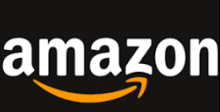
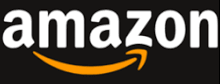
6:21pm

diff --git a/frontend/public/index.css b/frontend/public/index.css
@@ -1,5 +1,7 @@
 body {
    margin: 0;
+   font-family: Arial, Helvetica, sans-serif;
+   font-size: 14px;
 
    .container {
       display: grid;
@@ -8,47 +10,110 @@ body {
          color: white;
          background-color: rgb(37, 37, 63);
          display: flex;
-         max-width: 100%;
+         align-items: center;
+         height: 60px;
+         width: 1263px;
 
          .home {
-
+            height: 52px;
+            border: 1px solid white;
+            border-radius: 2px;
+            display: flex;
+            justify-content: center;
+            align-items: center;
+            margin-left: 2px;
             img {
-               max-width: 100px;
+               max-width: 96px;
+               max-height: 56px;
+               padding: 2px 6px;
+               
             }
          }
 
          .location {
+            height: 52px;
+            border: 1px solid white;
+            border-radius: 2px;
+            display: flex;
+            width: 140px;
+            align-items: center;
+            margin-left: 1px;
 
-            img {
+            .person span {
+               margin-left: 0px;
+            }
+
+            .person .customer {
+               font-size: 12px;
+               font-family: Arial, Helvetica, sans-serif;
+               white-space: nowrap;
+            }
+
+            .person .pin {
+               font-size: 14px;
+               font-family: Arial, Helvetica, sans-serif;
+               white-space: nowrap;
+            }
+
+            .img img {
                width: 30px;
                height: 25px;
+               padding-left: 0px;
+               padding-top: 18px;
+               
             }
          }
 
          .search {
             display: flex;
+            min-width: 200px;
+            max-width: 300px;
+            padding-left: 6px;
 
-            .all {
-
-               img {
-                  max-width: 20px;
-                  
+            .searchBar {
+               height: 40px;
+               display: flex;
+               .all {
+                  background-color: white;
+                  height: 40px;
+                  width: 50px;
+                  display: flex;
+                  border-top-left-radius: 4px;
+                  border-bottom-left-radius: 4px;
+                  span {
+                     font-size: 12px;
+                     font-family: inherit;
+                     color: rgb(143, 135, 135);
+                     padding-left: 12px;
+                     padding-top: 12px;
+                     
+                  }
+   
+                  img {
+                     width: 12px;
+                     height: 12px;
+                     padding-top: 15px;
+                     padding-left: 7px;
+                     padding-right: 7px;
+                  }
                }
-            }
-            input {
-               max-height: 30px;
-            }
-            .search {
-               
-               img {
-                  width: 25px;
-                  height: 25px;
+               input {
+                  height: 34px;
+               }
+               input:focus {
+                  outline: none;
+               }
+               .search {
+                  
+                  img {
+                     width: 25px;
+                     height: 25px;
+                  }
                }
             }
          }
-
          .language {
-
+   
             img {
                width: 20px
             }
@@ -66,10 +131,13 @@ body {
                width: 40px;
             }
          }
+            
       }
       .bottomBar {
          color: white;
          background: rgb(73, 73, 90);
+         height: 40px;
+         width: 1263px;
       }
 
       .content {

diff --git a/frontend/public/index.html b/frontend/public/index.html
@@ -13,18 +13,24 @@
             <img src="./src/images/amazon.png" alt="">
          </div>
          <div class="location">
-            <span>Deliver to Person</span>
-            <img src="./src/images/location.png" alt="">
-            <span>Dimapur 797112</span>
+            <div class="img">
+               <img src="./src/images/location.png" alt="">
+            </div>
+            <div class="person">
+               <span class="customer">Deliver to Person</span class="person">
+               <span class="pin">Dimapur 797112</span>
+            </div>
          </div>
          <div class="search">
-            <div class="all">
-               <span>All</span>
-               <img src="./src/images/dropdown.png" alt="">
-            </div>
-            <input type="text" placeholder="Search Amazon">
-            <div class="search">
-               <img src="./src/images/search.png" alt="">
+            <div class="searchBar">
+               <div class="all">
+                  <span>All</span>
+                  <img src="./src/images/dropdown.png" alt="">
+               </div>
+               <input type="text" placeholder="Search Amazon">
+               <div class="search">
+                  <img src="./src/images/search.png" alt="">
+               </div>
             </div>
          </div>
          <div class="language">
